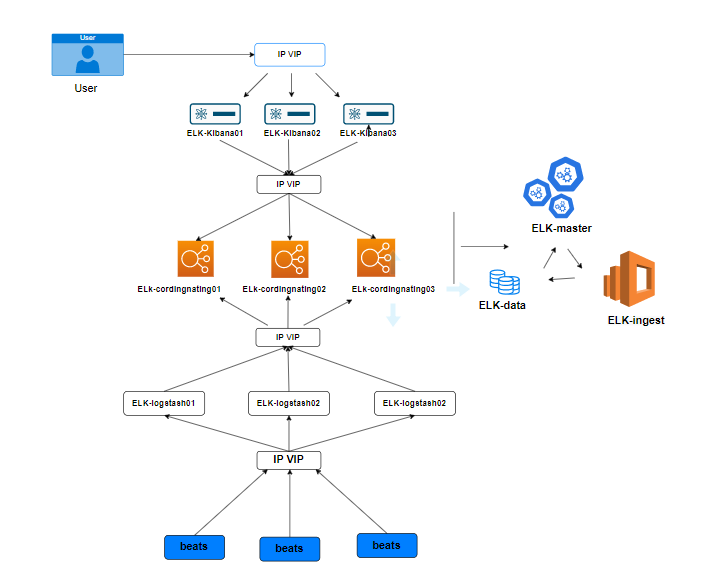
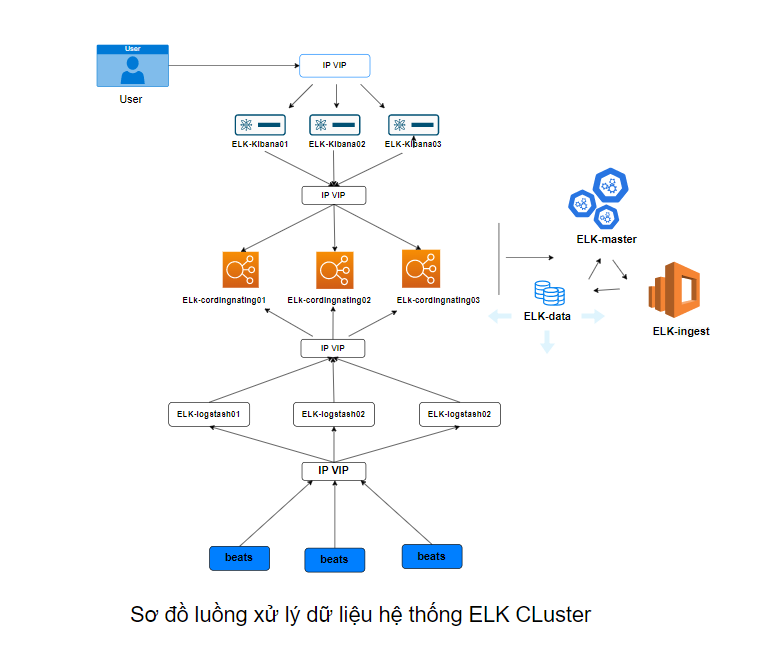
cập nhật tài liêu triển khai ELK cluster

diff --git a/ELK-Stack/1-Tài liệu/1.2 Triển khai/Document-ELK-Stack-cluster.md b/ELK-Stack/1-Tài liệu/1.2 Triển khai/Document-ELK-Stack-cluster.md
@@ -2,38 +2,111 @@
 
 # Phần I. Tổng quan
 ## 1. Mô hình hệ thống
-- Mô hình luồng xử lý dữ liệu
+### -  Mô hình luồng xử lý dữ liệu
 
 
-<h3 align="center"><img src="../../../ELK-Stack/03-Images/dosc/44.png"></h3>
+<h3 align="center"><img src="../../../ELK-Stack/03-Images/dosc/46.png"></h3>
+
+- Mội thành phần xử lý dữ liệu hay điều hướng các request đều được hoạt động dưới hình thức HA nhằm mục đích đảm bảo tính ổn định, tăng hiệu năng xử lý của hệ thống.
+
+- Để có thể kết nối đến các thành phần trong một cụm sẽ sử dụng IP VIP để thực hiện kết nối và chia tải hệ thống
 
 
-- Mô hình triển khai
-<h3 align="center"><img src="../../../ELK-Stack/03-Images/dosc/45.png"></h3>
+### -  Mô hình triển khai thiết bị vật lý
+<h3 align="center"><img src="../../../ELK-Stack/03-Images/dosc/47.png"></h3>
 
 - Đối với mô hình nêu trên cần đến 7 server sử dụng docker để thực hiện cài đặt cụm ELK cluster, Túy thuộc vào tài nguyên hệ thống mà có thể đặt các role hoặc tăng giảm số container  cho các node thuộc Cluster nhằm mục đích giảm thiếu hoặc tăng số lượng server:
-- Quý tắc đăt roles cho cụm:
-  - Tối thiểu 1 cụm cần có 3 thành phần: Master, Data, client
-  -  Node master: Có trách nhiệm quản lý, tạo, sửa, xóa index, tái sắp xếp shard, thêm hoặc xóa 1 node ra khỏi cụm cluster. Thường được đặt các roles: master, voting_only
-  - Node data: Chỉ có trách nhiệm lưu trữ dữ liệu được gửi về. Thường được đặt các roles liên quan đến data
-  - Node Client: Có nhiệm xử lý dữ liệu, tiến trình hay chuyển đổi dữ liệu elasticseach hay API
-  - Dữ liệu chỉ được phép lưu trữ trên các node data
+- Quý tắc đăt roles cho cụm `Elastcisearch`:
+  - Tối thiểu 1 cụm cần có các thành phần: Master, Data, ingest, coordinating
+  - Cần thực hiện chạy Cluster đối với các role
+  - Trên một server vật lý cài đặt Elasticsearch có thể thực hiện đặt nhiều role khác nhau dẫn điến một cụm ELK-cluster có thể có số server chẵn nhưng số lượng server sử dụng cho 1 role luôn lẻ nhằm thỏa mãn công thức về số node hoạt động là (N/2)+1
+
+- VLan:
+  - Pubic 192.168.70..x/24: Sử dụng để management các server, tiếp nhận dữ liệu đẩy vào và đua dữ liệu ra bên ngoài thông qua kibana đến với người dùng
+  - Prvate 10.10.10.x/24: Sủ dụng để các node trong hệ thống thưc hiện giao tiếp và xử lý dữ liệu 
 
 ## 2. Thành phần chức năng các node có trong mô hình
-- Node 1:
-  - Hosname: elk-master01
-  - 
-| <p align="center">Node</p> | <p align="center">Host name</p> | <p align="center">role</p> | <p align="center">Cấu hình</p> | <p align="center">Vai trò</p> |
-|------|-----------|------|----------|-----------|
-| Master-01 | ELK-Master | <ul><li>master</li><li>voting_only</li></ul> | <ul><li></li></ul> | <ul><li>Có trách nhiệm quản lý, tạo, sửa, xóa index, tái sắp xếp shard, thêm hoặc xóa 1 node ra khỏi cụm cluster</li><li>Chỉ định nút có đủ điều kiệu lên làm master trong cụm cluster đã được khai báo </li></ul> |
-| Data1 | ELK-Data1 | <ul><li>data_hot</li><li>data_content<li>master</li></ul> | <ul><li></li></ul> | <ul><li>Sử dụng để lưu trữ dữ liệu vửa được đẩy vào từ logstash và có lượng tìm kiếm lớn</li><li>Sử dụng backup dự phòng cho node master </li></ul> ||  |
-| Data2 | ELK-Data2 | <ul><li>data_warm</li><li>data_cold</li><li>data_frozen<li>master</li></ul>| <ul><li> </li></ul> | <ul><li>Lưu trữ dữ liệu ít được tìm kiếm</li><li>Sử dụng backup dự phòng cho node master </li></ul> |
-| Ingest | ELK-Ingest | <ul><li>Ingest</li></ul> | <ul><li></li></ul> | <ul><li> Xử lý dữ documents trước khi quán trình index bắt đầu  </li></ul> |
-| Coordinating | ELK-Coordinating | <ul><li>[ ]</li></ul> | <ul><li></li></ul> | <ul><li>Có trach nhiệm điều phối, xử lý các request</li></ul> |
-| Transform | ELK-Transform  | <ul><li>transform</li><li>remote_cluster_client</li></ul> | <ul><li></li></ul> | <ul><li>thực hiện chuyển đổi các chỉ số Elasticsearch và các chỉ số API </li></ul> |
-| Machine-learning | ELK-Machine-learning | <ul><li>ml</li><li>remote_cluster_client</li></ul>| <ul><li></li></ul> | <ul><li>Xử lý các tiến trình API requests</li></ul>|
 
+### `Node ELK-Master`
+- Hosname: elk-master
+- IP Public: 192.168.70.50/24
+- IP Private: 10.10.10.10/24
+- Container: Elasticsearch
+- Role: master, ml, transform
+- Chức năng: Xủ lý, sửa , xóa các index. Add thêm hoặc xóa node trong cụm, thực hiện tìm kiếm và chuyển đổi các API gửi đến hệ thống
+ - Tại một thời điểm chỉ có một node master hoạt động
 
+### `Node ELK-data1`
+- Hosname: elk-data1
+- IP Public: 192.168.70.51/24
+- IP Private: 10.10.10.11/24
+- Container: Elasticsearch
+- Role: data, master, ingest
+- Chức năng: Xử lý dữ liệu index trước khi lưu trữ , lưu trữ dữ liệu, thực hiện backup roles master để khi cần thiết có thể đứng lên làm master
+
+### `Node ELK-data2`
+- Hosname: elk-data2
+- IP Public: 192.168.70.52/24
+- IP Private: 10.10.10.12/24
+- Container: Elasticsearch
+- Role: data, master, ingest, voting_only
+- Chức năng: Xử lý dữ liệu index trước khi lưu trữ , lưu trữ dữ liệu, thực hiện backup roles master để khi cần thiết có thể đứng lên làm master, khả năng đúng tổ chức bình chọn node master khi node master hiện tại gặp sự cố không hoạt động
+
+### `Node ELK-data3`
+- Hosname: elk-data3
+- IP Public: 192.168.70.53/24
+- IP Private: 10.10.10.13/24
+- Container: Elasticsearch
+- Role: data, ingest,
+- Chức năng: Xử lý dữ liệu index trước khi lưu trữ , lưu trữ dữ liệu
+
+### `Node ELK-service01`
+- Hosname: elk-data3
+- IP Public: 192.168.70.54/24
+- IP Private: 10.10.10.14/24
+- Container1: Elasticsearch
+  - Role: coordinating
+  - Chức năng: chuyển tiếp các yêu cầu về cụm đến node master và các yêu cầu về data đến các node data
+- Container2: kibana
+  - Chức năng: Hiển thị dữ liệu logs dưới dạng biểu đồ trực quan đến người dùng
+- Container3: logstash
+  - Chức năng: Phân tích, xử lý và viết lại dữ liệu logs đẩy về hệ thống sau đó chuyển tiếp vào lưu trữ tại các cụm Elasticsearch cluster
+- Container4: Keepalive-haproxy
+  - Thực hiện cấu hình khởi tạo IP VIP cho cụm
+  - IP VIP Public: 192.168.70.63/24 - Master
+  - IP VIP local: 10.10.10.20/24 - Backup
+
+### `Node ELK-service02`
+- Hosname: elk-data3
+- IP Public: 192.168.70.55/24
+- IP Private: 10.10.10.15/24
+- Container1: Elasticsearch
+  - Role: coordinating
+  - Chức năng: chuyển tiếp các yêu cầu về cụm đến node master và các yêu cầu về data đến các node data
+- Container2: kibana
+  - Chức năng: Hiển thị dữ liệu logs dưới dạng biểu đồ trực quan đến người dùng
+- Container3: logstash
+  - Chức năng: Phân tích, xử lý và viết lại dữ liệu logs đẩy về hệ thống sau đó chuyển tiếp vào lưu trữ tại các cụm Elasticsearch cluster
+- Container4: Keepalive-haproxy
+  - Thực hiện cấu hình khởi tạo IP VIP cho cụm
+  - IP VIP Public: 192.168.70.63/24 - Backup
+  - IP VIP local: 10.10.10.20/24 - Master
+
+### `Node ELK-service03`
+- Hosname: elk-data3
+- IP Public: 192.168.70.55/24
+- IP Private: 10.10.10.15/24
+- Container1: Elasticsearch
+  - Role: coordinating
+  - Chức năng: chuyển tiếp các yêu cầu về cụm đến node master và các yêu cầu về data đến các node data
+- Container2: kibana
+  - Chức năng: Hiển thị dữ liệu logs dưới dạng biểu đồ trực quan đến người dùng
+- Container3: logstash
+  - Chức năng: Phân tích, xử lý và viết lại dữ liệu logs đẩy về hệ thống sau đó chuyển tiếp vào lưu trữ tại các cụm Elasticsearch cluster
+- Container4: Keepalive-haproxy
+  - Thực hiện cấu hình khởi tạo IP VIP cho cụm
+  - IP VIP Public: 192.168.70.63/24 - Backup
+  - IP VIP local: 10.10.10.20/24 - Backup
 
 # Phần II. Triển khai cài đặt
 ### Thực hiện cài đặt Docker Compose trên tất cả node thuộc hệ thống
@@ -137,9 +210,9 @@ chown -R 1000:1000 /elk-masterdb/logs/
 ```sh
 mkdir -p /elk-cluster-setup && cd /elk-cluster-setup
 ```
-- Tạo file config `elasticsearch-elk-master.yml` sử dụng cho elasticsearch nội dung [tại đây]()
+- Tạo file config `elasticsearch-elk-master.yml` sử dụng cho elasticsearch nội dung [tại đây](https://github.com/thang290298/Ghi-chep-Logs/blob/main/ELK-Stack/2-Source/02-Multi-node/elk-master/elasticsearch-elk-master.yml)
 
-- Tạo file setup `docker-compose.yml` nội dung [tại đây]()
+- Tạo file setup `docker-compose.yml` nội dung [tại đây](https://github.com/thang290298/Ghi-chep-Logs/blob/main/ELK-Stack/2-Source/02-Multi-node/elk-master/docker-compose.yml)
 
 ### Bước 3: Setup và kiểm tra
 
@@ -169,9 +242,9 @@ chown -R 1000:1000 /elk-data01/logs/
 ```sh
 mkdir -p /elk-cluster-setup && cd /elk-cluster-setup
 ```
-- Tạo file config `elasticsearch-elk-data01.yml` sử dụng cho elasticsearch nội dung [tại đây]()
+- Tạo file config `elasticsearch-elk-data01.yml` sử dụng cho elasticsearch nội dung [tại đây](https://github.com/thang290298/Ghi-chep-Logs/blob/main/ELK-Stack/2-Source/02-Multi-node/elk-data01/elasticsearch-elk-data01.yml)
 
-- Tạo file setup `docker-compose.yml` nội dung [tại đây]()
+- Tạo file setup `docker-compose.yml` nội dung [tại đây](https://github.com/thang290298/Ghi-chep-Logs/blob/main/ELK-Stack/2-Source/02-Multi-node/elk-data01/docker-compose.yml)
 
 ### Bước 3: Setup và kiểm tra
 
@@ -199,9 +272,9 @@ chown -R 1000:1000 /elk-data02/logs/
 ```sh
 mkdir -p /elk-cluster-setup && cd /elk-cluster-setup
 ```
-- Tạo file config `elasticsearch-elk-data02.yml` sử dụng cho elasticsearch nội dung [tại đây]()
+- Tạo file config `elasticsearch-elk-data02.yml` sử dụng cho elasticsearch nội dung [tại đây](https://github.com/thang290298/Ghi-chep-Logs/blob/main/ELK-Stack/2-Source/02-Multi-node/elk-data02/elasticsearch-elk-data02.yml)
 
-- Tạo file setup `docker-compose.yml` nội dung [tại đây]()
+- Tạo file setup `docker-compose.yml` nội dung [tại đây](https://github.com/thang290298/Ghi-chep-Logs/blob/main/ELK-Stack/2-Source/02-Multi-node/elk-data02/docker-compose.yml)
 
 ### Bước 3: Setup và kiểm tra
 
@@ -227,9 +300,9 @@ chown -R 1000:1000 /elk-data03/logs/
 ```sh
 mkdir -p /elk-cluster-setup && cd /elk-cluster-setup
 ```
-- Tạo file config `elasticsearch-elk-data03.yml` sử dụng cho elasticsearch nội dung [tại đây]()
+- Tạo file config `elasticsearch-elk-data03.yml` sử dụng cho elasticsearch nội dung [tại đây](https://github.com/thang290298/Ghi-chep-Logs/blob/main/ELK-Stack/2-Source/02-Multi-node/elk-data03/elasticsearch-elk-data03.yml)
 
-- Tạo file setup `docker-compose.yml` nội dung [tại đây]()
+- Tạo file setup `docker-compose.yml` nội dung [tại đây](https://github.com/thang290298/Ghi-chep-Logs/blob/main/ELK-Stack/2-Source/02-Multi-node/elk-data03/docker-compose.yml)
 
 ### Bước 3: Setup và kiểm tra
 
@@ -258,12 +331,12 @@ chown -R 1000:1000 /elk-coordinating01/logs/
 mkdir -p /elk-cluster-setup && cd /elk-cluster-setup
 ```
 **`elk-coordinating01`**
-- Tạo file config `elasticsearch-elk-coordinating01.yml` sử dụng cho elasticsearch nội dung [tại đây]()
+- Tạo file config `elasticsearch-elk-coordinating01.yml` sử dụng cho elasticsearch nội dung [tại đây](https://github.com/thang290298/Ghi-chep-Logs/blob/main/ELK-Stack/2-Source/02-Multi-node/elk-service01/elasticsearch-elk-Cordingnating01.yml)
 
 **`elk-kibana01`**
 
 - Tạo file config `elk-kibana01.yml`. Kibana sẽ trỏ vào Cụm Elasticsearch để đọc dữ liệu thông qua IP VIP được cấu hình để chạy HA cho 3 node `coordinating`
-  - Nội dung file config [tại đây]()
+  - Nội dung file config [tại đây](https://github.com/thang290298/Ghi-chep-Logs/blob/main/ELK-Stack/2-Source/02-Multi-node/elk-service01/elk-kibana01.yml)
 
 **`elk-logstash01`**
 - Tạo thư mục lưu trữ file config và file pipeline xử lý dữ liệu logs đẩy về
@@ -284,101 +357,8 @@ http.host: "0.0.0.0"
 path.config: /usr/share/logstash/pipeline
 ```
 
-- Tạo file pipeline trỏ vào server `redis-cache` để lấy dữ liệu và sau khi xử lý dữ liệu sẽ trả dữ liệu về cụm `Elasticsearch` 
+- Tạo file pipeline nhận dự liệu được gửi đến thông qua port 5000 và sau khi xử lý dữ liệu sẽ trả dữ liệu về cụm `Elasticsearch` 
 
-- Nội dung file [tại đây]()
-
-> Lưu ý: Pipeline sử dụng `IP-VIP` để trỏ đến các cụm redis và elasticsearch
-
-
-**`keepalived-haproxy01`**
-
-- Container này sử dụng để khởi tạo IP VIP và xử lý HA cho các hệ thống Redis-cache cũng như ELk-CLuster
-- Tạo thư mục lưu trữ file cấu hình `keepalived.conf` và `haproxy.cfg`, nội dung file config [tại đây]()
-```sh
-mkdir -p keepalived-haproxy/ keepalived-haproxy/keepalived keepalived-haproxy/haproxy
-```
-
-
-### Bước 3: Mở port firewall
-
-```sh
-sudo ufw allow 9200 
-sudo ufw allow 9300
-sudo ufw allow 9201  
-sudo ufw allow 6370  
-sudo ufw allow 8080  
-sudo ufw allow 5001  
-```
-
-
-### Bước 3: Setup và kiểm tra
-
-- chạy lệnh setup
-```sh
-docker compose up -d
-```
-Bước 4: kiểm tra kết quả:
-
-```sh
-root@elk-service01:/elk-cluster-setup# docker ps -a
-CONTAINER ID   IMAGE                                                  COMMAND                  CREATED              STATUS              PORTS     NAMES
-ac233b60b956   docker.elastic.co/kibana/kibana:7.16.2                 "/bin/tini -- /usr/l…"   About a minute ago   Up About a minute             elk-kibana01
-3a6ca578d0c4   docker.elastic.co/elasticsearch/elasticsearch:7.16.2   "/bin/tini -- /usr/l…"   About a minute ago   Up About a minute             elk-coordinating01
-86871b607c91   pelin/haproxy-keepalived:v1.0.0                        "/haproxy-keepalived"    About a minute ago   Up About a minute             keepalived-haproxy01
-82b1923282aa   docker.elastic.co/logstash/logstash:7.16.2             "/usr/local/bin/dock…"   About a minute ago   Up About a minute             elk-logstash01
-root@elk-service01:/elk-cluster-setup#
-```
-### **`2.5 Node elk-service02`**
-
-- Thực hiện tương tự node `elk-service01` và cần thay đổi các trường thông tin sau:
-  - Tên các container hoạt động trên docker
-  - thay đổi địa chỉ IP của container đó trong các file cấu hình .yml
-  - thay đổi mode master và backup trong file cấu hình IP VIP
-
-- Nội dung file setup và config đặt [tại đây]()
-
-### **`2.6 Node elk-service03`**
-
-- Các thao tác thực hiện tương tự node `elk-service02`
-
-- Nội dung file setup và config đặt [tại đây]()
-
-
-### **`2.7 redis-cluster01`**
-
-### Bước 1: Tạo thư mục lưu trữ dữ liệu
-- Tạo thư mục lưu trữ dữ liệu và file cấu hình
-```sh
-mkdir -p /redis-cache01/ /redis-cache01/data /redis-cache01/conf
-sudo chown -R 1001:1001 /redis-cache01
-```
-
-### Bước 2: Tạo thư mục cài đặt
-- tạo và truy cập thư mục setup
-```sh
-mkdir -p /elk-cluster-setup && cd /elk-cluster-setup
-```
-- Tạo file config redis cluster
-```sh
-#vi redis.conf
-- nội dung:
-port 6379
-protected-mode no
-daemonize no
-appendonly yes
-cluster-enabled yes
-cluster-config-file nodes.conf
-cluster-node-timeout 5000
-cluster-announce-ip 10.10.10.17  //IP node 
-cluster-announce-port 6379
-cluster-announce-bus-port 16379
-```
-- Tạo đường dẫn chưa các file pipeline cho logstash
-```sh
-mkdir -p logtash/pipeline
-```
-- Tạo  1 file pipeline `01-bests.conf` để xử lý dữ liệu có nội dung sau:
 ```sh
 input {
   beats {
@@ -413,49 +393,59 @@ output {
 }
 ```
 
-- Tạo file setup `docker-compose.yml` nội dung [tại đây]()
+> Lưu ý: Pipeline sử dụng `IP-VIP` để trỏ đến các cụm redis và elasticsearch
 
+
+**`keepalived-haproxy01`**
+
+- Container này sử dụng để khởi tạo IP VIP và xử lý HA cho các hệ thống Redis-cache cũng như ELk-CLuster
+- Tạo thư mục lưu trữ file cấu hình `keepalived.conf` và `haproxy.cfg`, nội dung file config [tại đây](https://github.com/thang290298/Ghi-chep-Logs/tree/main/ELK-Stack/2-Source/02-Multi-node/elk-service01/keepalived-haproxy)
+```sh
+mkdir -p keepalived-haproxy/ keepalived-haproxy/keepalived keepalived-haproxy/haproxy
+```
+
+
+### Bước 3: Mở port firewall
+
+```sh
+sudo ufw allow 9200 
+sudo ufw allow 9300
+sudo ufw allow 9201  
+sudo ufw allow 8080  
+sudo ufw allow 5001  
+```
+
+
+### Bước 3: Setup và kiểm tra
 
 - chạy lệnh setup
 ```sh
 docker compose up -d
 ```
-### Bước 3: Mở port firewall
+Bước 4: kiểm tra kết quả:
 
 ```sh
-sudo ufw allow 6379 
-sudo ufw allow 6370  
-sudo ufw allow 5001
-sudo ufw allow 5000
+root@elk-service01:/elk-cluster-setup# docker ps -a
+CONTAINER ID   IMAGE                                                  COMMAND                  CREATED              STATUS              PORTS     NAMES
+ac233b60b956   docker.elastic.co/kibana/kibana:7.16.2                 "/bin/tini -- /usr/l…"   About a minute ago   Up About a minute             elk-kibana01
+3a6ca578d0c4   docker.elastic.co/elasticsearch/elasticsearch:7.16.2   "/bin/tini -- /usr/l…"   About a minute ago   Up About a minute             elk-coordinating01
+86871b607c91   pelin/haproxy-keepalived:v1.0.0                        "/haproxy-keepalived"    About a minute ago   Up About a minute             keepalived-haproxy01
+82b1923282aa   docker.elastic.co/logstash/logstash:7.16.2             "/usr/local/bin/dock…"   About a minute ago   Up About a minute             elk-logstash01
+root@elk-service01:/elk-cluster-setup#
 ```
+### **`2.5 Node elk-service02`**
 
-### **`Sau khi hoàn thành tiếp tục thực hiện tương tự đối với 2 node cluster redis-cluster02 và redis-cluster03`**
+- Thực hiện tương tự node `elk-service01` và cần thay đổi các trường thông tin sau:
+  - Tên các container hoạt động trên docker
+  - thay đổi địa chỉ IP của container đó trong các file cấu hình .yml
+  - thay đổi mode master và backup trong file cấu hình IP VIP
 
-- Nội dung file setup và config node `redis-cluster02` [tại đây]()
-- Nội dung file setup và config node `redis-cluster03` [tại đây]()
+- Nội dung file setup và config đặt [tại đây](https://github.com/thang290298/Ghi-chep-Logs/tree/main/ELK-Stack/2-Source/02-Multi-node/elk-service02)
+
+### **`2.6 Node elk-service03`**
+
+- Các thao tác thực hiện tương tự node `elk-service02`
+
+- Nội dung file setup và config đặt [tại đây](https://github.com/thang290298/Ghi-chep-Logs/tree/main/ELK-Stack/2-Source/02-Multi-node/elk-service03)
 
 
-### Truy cập node `redis-cluster01` thực hiện add cụm cluster cho 3 node vừa cài đặt
-
-- thực hiện các lệnh sau:
-```sh
-docker exec -it redis-cluster01 bash
-cd /usr/local/bin
-redis-cli --cluster create 10.10.10.17:6379 10.10.10.18:6379 10.10.10.19:6379
-```
-- kết quả:
-```sh
->>> Performing Cluster Check (using node 10.10.10.17:6379)
-M: 72b91b2ee3e93b5d19b33232a097fc059ea8ab04 10.10.10.17:6379
-   slots:[0-5460] (5461 slots) master
-M: fdcff584aaa53203e5c488a4e808cf84f0204f8d 10.10.10.19:6379
-   slots:[10923-16383] (5461 slots) master
-M: d6041a7b01c46e6129737655c41c029c2667f3a3 10.10.10.18:6379
-   slots:[5461-10922] (5462 slots) master
-[OK] All nodes agree about slots configuration.
->>> Check for open slots...
->>> Check slots coverage...
-[OK] All 16384 slots covered.
-root@redis01:/usr/local/bin#
-```
-- Để có 1 cụm redis cluster cần có ít nhất và node và trong trường hợp các node master cần có các bản replicas thì cần ít nhất là 6 node tương ứng 3 slave cho 3 master
